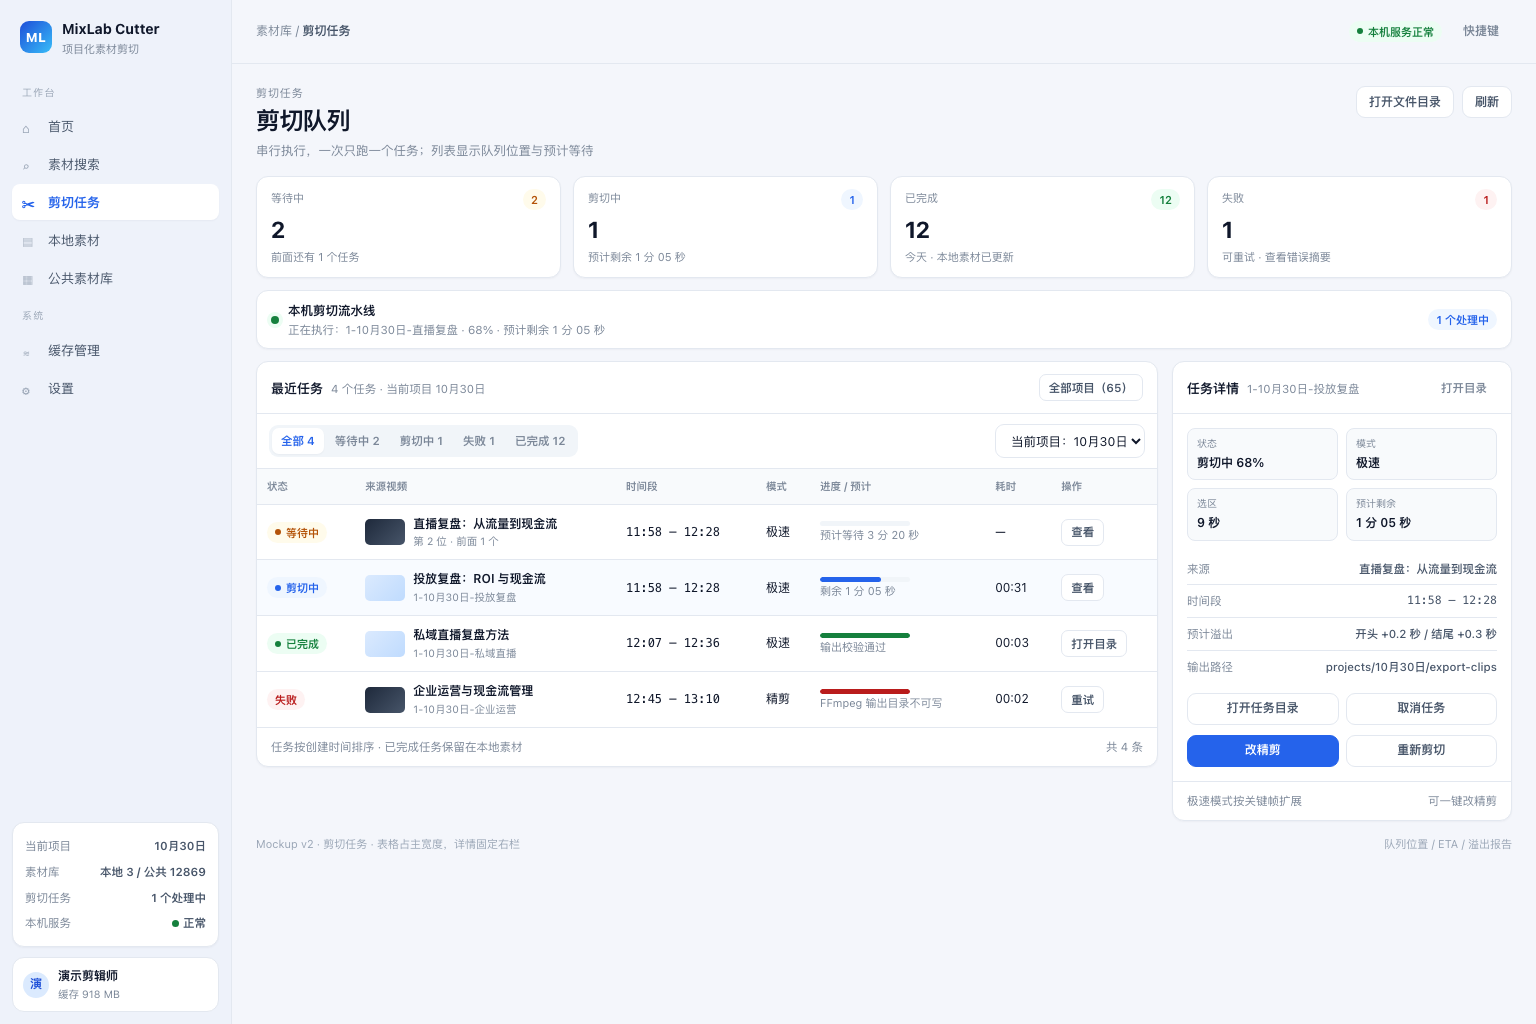
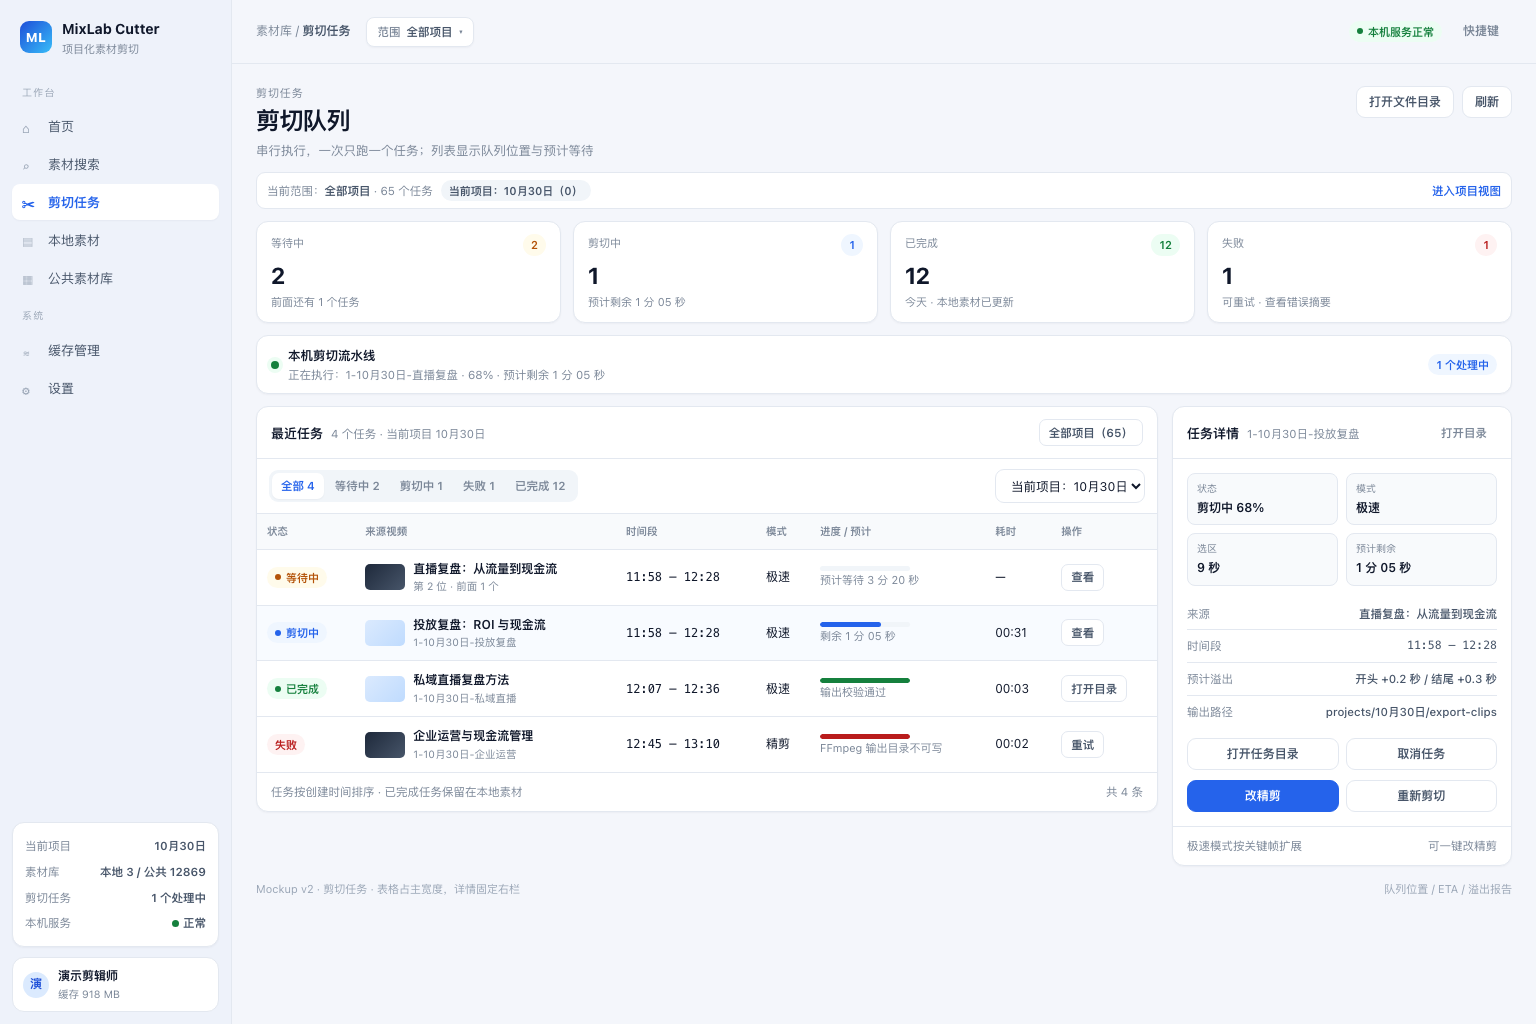
docs(design): project A+B hybrid model and scope switcher

diff --git a/docs/design/mockups/home.html b/docs/design/mockups/home.html
@@ -19,11 +19,11 @@
     <div class="user-card"><div class="avatar">演</div><div class="user-copy"><div class="user-name">演示剪辑师</div><div class="user-meta">缓存 918 MB</div></div></div>
   </aside>
   <div class="main">
-    <header class="topbar"><div class="breadcrumb">工作台 / <strong>首页</strong></div><div class="topbar-spacer"></div><div class="topbar-actions"><span class="badge success"><span class="dot"></span>本机服务正常</span><button class="btn ghost">快捷键</button></div></header>
+    <header class="topbar"><div class="breadcrumb">工作台 / <strong>首页</strong></div><button class="project-switch"><span class="ps-label">范围</span><strong>全部项目</strong><span class="ps-caret">▾</span></button><div class="topbar-spacer"></div><div class="topbar-actions"><span class="badge success"><span class="dot"></span>本机服务正常</span><button class="btn ghost">快捷键</button></div></header>
     <div class="page">
       <div class="page-header">
-        <div><div class="page-eyebrow">工作台</div><h1>开始一个剪切项目</h1><p class="page-subtitle">选择最近项目继续，或直接搜索素材；项目会把搜索、任务和本地素材归档在一起。</p></div>
-        <div class="page-actions"><button class="btn">导入项目</button><button class="btn primary">＋ 新建项目</button></div>
+        <div><div class="page-eyebrow">工作台</div><h1>素材与剪切工作台</h1><p class="page-subtitle">不选项目也能直接搜索和剪切；项目只是归档范围，可随时切换。</p></div>
+        <div class="page-actions"><button class="btn">继续最近项目</button><button class="btn primary">＋ 新建项目</button></div>
       </div>
       <section class="home-hero">
         <div class="hero-side"><span class="hero-chip">● 本机服务正常</span><span class="hero-chip">本地素材 3</span></div>
@@ -41,20 +41,20 @@
         <section class="card">
           <div class="home-section-title"><strong>最近项目</strong><button class="btn small ghost">查看全部</button></div>
           <div class="home-empty empty-state" style="border:0;background:transparent">
-            <strong>还没有剪切项目</strong>
-            新建项目后，搜索记录、剪切任务和本地素材会自动归档到同一个项目。
-            <div class="empty-actions"><button class="btn primary">＋ 新建项目</button><button class="btn">先搜索素材</button></div>
+            <strong>还没有归档项目</strong>
+            项目只用于归档；不选项目也可以直接搜索，剪切时再选择归档到哪个项目。
+            <div class="empty-actions"><button class="btn primary">＋ 新建项目</button><button class="btn">直接搜索素材</button></div>
           </div>
           </section>
         <section class="card">
           <div class="home-section-title"><strong>快速开始</strong><span>常用入口</span></div>
           <div class="quick-list">
-            <div class="quick-item"><div class="quick-icon">＋</div><div class="quick-text"><strong>新建项目</strong><span>为这次剪辑建立独立项目</span></div><span class="table-note">推荐</span></div>
-            <div class="quick-item"><div class="quick-icon">⌕</div><div class="quick-text"><strong>搜索素材</strong><span>按文案定位公共素材片段</span></div></div>
+            <div class="quick-item"><div class="quick-icon">⌕</div><div class="quick-text"><strong>直接搜索素材</strong><span>不选项目，先找文案和片段</span></div><span class="table-note">推荐</span></div>
+            <div class="quick-item"><div class="quick-icon">＋</div><div class="quick-text"><strong>新建项目</strong><span>为这次剪辑建立归档项目</span></div></div>
             <div class="quick-item"><div class="quick-icon">✂</div><div class="quick-text"><strong>查看剪切任务</strong><span>1 个处理中 · 预计 1 分 05 秒</span></div></div>
             <div class="quick-item"><div class="quick-icon">▤</div><div class="quick-text"><strong>本地素材</strong><span>播放、打开目录或继续编辑</span></div></div>
           </div>
-          <div class="home-section-title" style="border-top:1px solid var(--border);border-bottom:0"><strong>最近剪切</strong><button class="btn small ghost">全部任务</button></div>
+          <div class="home-section-title" style="border-top:1px solid var(--border);border-bottom:0"><strong>最近剪切 · 全部项目</strong><button class="btn small ghost">全部任务</button></div>
           <div class="card-body" style="padding-top:4px">
             <div class="mini-task"><span class="badge warning"><span class="dot"></span>等待中</span><div class="mini-task-title">1-10月30日-直播复盘</div><span class="table-note">第 2 位</span></div>
             <div class="mini-task"><span class="badge success"><span class="dot"></span>已完成</span><div class="mini-task-title">1-10月30日-私域直播</div><span class="table-note">00:03</span></div>

diff --git a/docs/design/mockups/local-library.html b/docs/design/mockups/local-library.html
@@ -19,9 +19,10 @@
     <div class="user-card"><div class="avatar">演</div><div class="user-copy"><div class="user-name">演示剪辑师</div><div class="user-meta">缓存 918 MB</div></div></div>
   </aside>
   <div class="main">
-    <header class="topbar"><div class="breadcrumb">素材库 / <strong>本地素材</strong></div><div class="topbar-spacer"></div><div class="topbar-actions"><span class="badge success"><span class="dot"></span>本机服务正常</span><button class="btn ghost">快捷键</button></div></header>
+    <header class="topbar"><div class="breadcrumb">素材库 / <strong>本地素材</strong></div><button class="project-switch"><span class="ps-label">范围</span><strong>全部项目</strong><span class="ps-caret">▾</span></button><div class="topbar-spacer"></div><div class="topbar-actions"><span class="badge success"><span class="dot"></span>本机服务正常</span><button class="btn ghost">快捷键</button></div></header>
     <div class="page">
       <div class="page-header"><div><div class="page-eyebrow">本地素材</div><h1>本地素材库</h1><p class="page-subtitle">查看本机剪切结果，播放、打开目录或继续编辑</p></div><div class="page-actions"><button class="btn">打开素材目录</button><button class="btn primary">＋ 新建项目</button></div></div>
+      <div class="scope-bar"><span>当前范围：<strong>全部项目</strong> · 6 个素材</span><span class="badge neutral">未归属 2</span><span class="scope-spacer"></span><a class="scope-action" href="#">进入项目视图</a></div>
       <div class="tabs-page"><div class="segmented"><button class="active">当前项目</button><button>全部素材</button></div><div class="segmented"><button class="active">全部</button><button>横屏</button><button>竖屏</button></div><span class="table-note">共 6 个素材 · 按创建时间倒序</span></div>
       <div class="detail-grid">
         <section class="card">

diff --git a/docs/design/mockups/cut-tasks.html b/docs/design/mockups/cut-tasks.html
@@ -33,7 +33,7 @@
   <div class="main">
     <header class="topbar">
       <div class="breadcrumb">素材库 / <strong>剪切任务</strong></div>
-      <div class="topbar-spacer"></div>
+      <button class="project-switch"><span class="ps-label">范围</span><strong>全部项目</strong><span class="ps-caret">▾</span></button><div class="topbar-spacer"></div>
       <div class="topbar-actions"><span class="badge success"><span class="dot"></span>本机服务正常</span><button class="btn ghost">快捷键</button></div>
     </header>
     <div class="page">
@@ -41,6 +41,7 @@
         <div><div class="page-eyebrow">剪切任务</div><h1>剪切队列</h1><p class="page-subtitle">串行执行，一次只跑一个任务；列表显示队列位置与预计等待</p></div>
         <div class="page-actions"><button class="btn">打开文件目录</button><button class="btn">刷新</button></div>
       </div>
+      <div class="scope-bar"><span>当前范围：<strong>全部项目</strong> · 65 个任务</span><span class="badge neutral">当前项目：10月30日（0）</span><span class="scope-spacer"></span><a class="scope-action" href="#">进入项目视图</a></div>
       <div class="kpi-grid">
         <div class="card kpi"><div class="kpi-label">等待中<span class="badge warning">2</span></div><div class="kpi-value">2</div><div class="kpi-meta">前面还有 1 个任务</div></div>
         <div class="card kpi"><div class="kpi-label">剪切中<span class="badge info">1</span></div><div class="kpi-value">1</div><div class="kpi-meta">预计剩余 1 分 05 秒</div></div>

diff --git a/docs/design/mockups/assets/styles.css b/docs/design/mockups/assets/styles.css
@@ -328,3 +328,23 @@ tr:hover td { background: var(--surface-2); }
 /* Floating cut toolbar: reserve space in selected row so it never covers text. */
 .transcript-row.current { padding-right: 210px; }
 .floating-cut { top: 50%; right: 6px; transform: translateY(-50%); }
+
+/* Project scope: global scope + optional project view. */
+.project-switch {
+  display: inline-flex; align-items: center; gap: 6px;
+  height: 30px; padding: 0 10px; margin-left: 4px;
+  background: var(--surface); border: 1px solid var(--border); border-radius: 8px;
+  color: var(--text-secondary); font-size: 11.5px; font-weight: 600; box-shadow: var(--shadow);
+}
+.project-switch:hover { border-color: var(--border-strong); color: var(--text); }
+.project-switch .ps-label { color: var(--muted); font-weight: 500; }
+.project-switch .ps-caret { color: var(--muted); font-size: 10px; }
+.scope-bar {
+  display: flex; align-items: center; gap: 8px;
+  margin: -4px 0 12px; padding: 7px 10px;
+  background: var(--surface); border: 1px solid var(--border); border-radius: 9px;
+  color: var(--muted); font-size: 11.5px;
+}
+.scope-bar strong { color: var(--text-secondary); font-weight: 600; }
+.scope-bar .scope-spacer { flex: 1; }
+.scope-bar .scope-action { color: var(--accent); font-weight: 600; font-size: 11.5px; }

diff --git a/docs/design/mockups/workbench.html b/docs/design/mockups/workbench.html
@@ -39,7 +39,7 @@
   <div class="main">
     <header class="topbar">
       <div class="breadcrumb">素材库 / <strong>素材搜索</strong></div>
-      <div class="topbar-spacer"></div>
+      <button class="project-switch"><span class="ps-label">范围</span><strong>全部项目</strong><span class="ps-caret">▾</span></button><div class="topbar-spacer"></div>
       <div class="topbar-actions">
         <span class="badge success"><span class="dot"></span>本机服务正常</span>
         <button class="btn ghost">快捷键</button>
@@ -57,6 +57,7 @@
           <button class="btn primary">＋ 新建项目</button>
         </div>
       </div>
+      <div class="scope-bar"><span>当前范围：<strong>全部项目</strong> · 5 个候选 / 18 处命中</span><span class="badge neutral">未归属 2</span><span class="scope-spacer"></span><a class="scope-action" href="#">进入项目视图</a></div>
       <div class="searchbar" style="max-width:none;margin-bottom:14px">
         <div class="input-wrap"><input class="input" value="现金流" placeholder="搜索文案，例如：现金流" /></div>
         <select class="input scope"><option>全部素材</option><option>公共原素材</option><option>本地素材</option></select>

diff --git a/docs/design/cutter-ui-audit.md b/docs/design/cutter-ui-audit.md
@@ -37,7 +37,7 @@
 
 ### 3.0 首页（project-home / 用户指定优先）
 
-现状：整页大面积空白；顶部英文面包屑 "Cutter / Project Home"；标题引导"选择项目，然后开始搜索素材"，但页面没有项目卡/空态 CTA；搜索框孤立在右上；项目详情为空。
+现状：整页大面积空白；顶部英文面包屑 "Cutter / Project Home"；标题引导"选择项目，然后开始搜索素材"，但页面没有项目卡/空态 CTA；搜索框孤立在右上；项目详情为空；项目被当作进入门槛而非归档范围。
 
 问题：
 1. 首页没有回答"下一步做什么"：新建项目/继续最近/直接搜索三个入口不清晰；
@@ -52,6 +52,17 @@
 - 最近项目：空态显示说明 + 新建项目/先搜索素材；有项目时显示项目卡网格；
 - 快速开始：新建项目/搜索素材/剪切任务/本地素材四入口；
 - 最近剪切：2~3 条摘要，完整列表去剪切任务页。
+
+### 3.0.1 项目模型决策（A+B 混合，用户确认）
+
+- **项目 = 归档范围（A）**：不是进入门槛；搜索/剪切/素材默认全部项目可见，项目用于归档和筛选。
+- **可进入项目视图（B）**：顶栏常驻项目切换器；点"进入项目视图"后页面作用域锁定当前项目，退出即回全部项目。
+- **默认作用域 = 全部项目**：避免任务/素材页被隐式过滤成 0 条；当前项目在顶栏与范围条始终可见。
+- **允许"未归属"**：作为正式收件箱展示，可后续移动/归档；不隐藏、不用 1- 前缀伪装。
+- **项目粒度 = 专题/主题/客户**：日期只作为新建项目默认名建议，不强制一天一个；允许一天多个项目。
+- **剪切归档 = 默认最近项目、可修改**：剪切确认/悬浮操作里显示"将归档到：X"，无项目时进"未归属"，不强制当场建项目。
+
+这套模型同时解决"忘记自己在哪个项目"和"项目字段乱入工作流"两个问题：项目始终可见，但不阻塞操作。
 
 ### 3.1 素材搜索 / 工作台（material-locator）
 
@@ -166,7 +177,7 @@
 
 | 阶段 | 内容 | 时间估算 |
 |---|---|---|
-| Phase 0 | 设计令牌 + AppShell + 基础组件（Button/Card/Badge/Table/Empty/Skeleton）+ 截图基线 | 3~5 天 |
+| Phase 0 | 设计令牌 + AppShell + 顶栏项目切换器/范围条 + 基础组件 + 截图基线 | 3~5 天 |
 | Phase 1 | 首页（优先）、素材搜索、剪切任务 | 3~5 天 |
 | Phase 2 | 本地素材、缓存管理、设置 | 3~5 天 |
 | Phase 3 | 深色主题、快捷键、可访问性/缩放、视觉回归 | 按需 |
